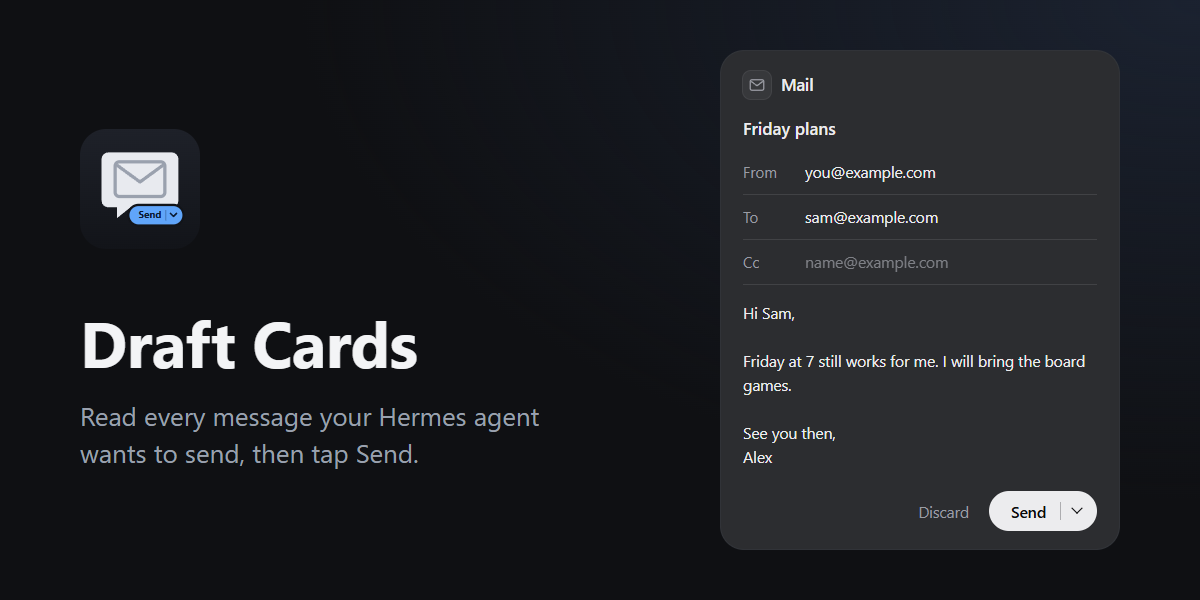
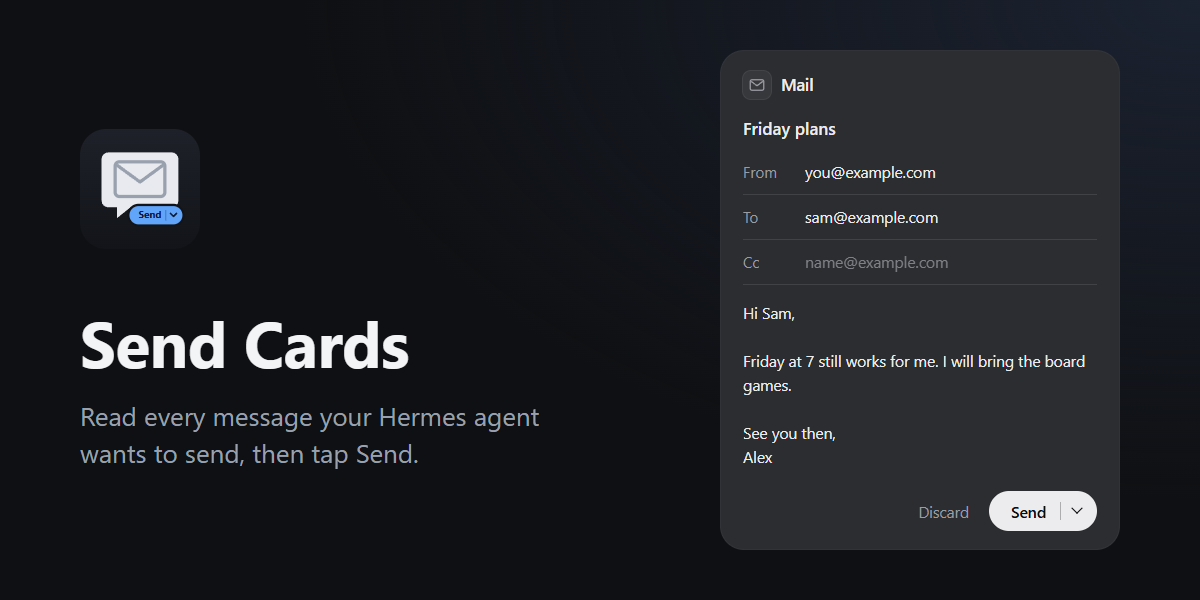
Rename to Send Cards (send-cards)

Changed region(s): [[0.0617, 0.51, 0.37, 0.63]]

diff --git a/tests/make_assets.py b/tests/make_assets.py
@@ -9,7 +9,7 @@ import tempfile
 from playwright.sync_api import sync_playwright
 
 ROOT = Path(__file__).resolve().parents[1]
-spec = importlib.util.spec_from_file_location('draft_card', ROOT / 'skills/draft-cards/scripts/draft_card.py')
+spec = importlib.util.spec_from_file_location('draft_card', ROOT / 'skills/send-cards/scripts/draft_card.py')
 card = importlib.util.module_from_spec(spec)
 spec.loader.exec_module(card)
 
@@ -30,7 +30,7 @@ body{background:radial-gradient(900px 500px at 100% 0,#1b2230,transparent),#0f10
 h1{font-size:64px;margin:46px 0 14px;font-weight:700;color:#f3f4f6;letter-spacing:-.5px}
 p{font-size:26px;line-height:1.4;color:#9aa1ae;margin:0;max-width:520px}
 .r{width:400px;flex:none}</style>
-<div class="l"><img src="ICON"><h1>Draft Cards</h1><p>Read every message your Hermes agent wants to send, then tap Send.</p></div>
+<div class="l"><img src="ICON"><h1>Send Cards</h1><p>Read every message your Hermes agent wants to send, then tap Send.</p></div>
 <div class="r">CARD</div>"""
 
 BANNER_DRAFT = {
@@ -63,11 +63,11 @@ def main():
             page.wait_for_timeout(300)
             page.screenshot(path=str(out))
 
-        shot(X_PREVIEW.replace('ICON', icon), 1200, 630, ROOT / 'skills/draft-cards/examples/x-preview.png')
+        shot(X_PREVIEW.replace('ICON', icon), 1200, 630, ROOT / 'skills/send-cards/examples/x-preview.png')
         banner_card = card.render(BANNER_DRAFT)
         shot(BANNER.replace('THEME', THEME).replace('ICON', icon).replace('CARD', banner_card), 1200, 600, docs / 'banner.png')
         browser.close()
-    print('Wrote assets/icon-{512,256,128,64}.png, skills/draft-cards/examples/x-preview.png, docs/banner.png')
+    print('Wrote assets/icon-{512,256,128,64}.png, skills/send-cards/examples/x-preview.png, docs/banner.png')
 
 
 if __name__ == '__main__':

diff --git a/tests/browser_check.py b/tests/browser_check.py
@@ -15,8 +15,8 @@ import threading
 from playwright.sync_api import sync_playwright
 
 ROOT = Path(__file__).resolve().parents[1]
-EXAMPLES = ROOT / 'skills/draft-cards/examples'
-spec = importlib.util.spec_from_file_location('draft_card', ROOT / 'skills/draft-cards/scripts/draft_card.py')
+EXAMPLES = ROOT / 'skills/send-cards/examples'
+spec = importlib.util.spec_from_file_location('draft_card', ROOT / 'skills/send-cards/scripts/draft_card.py')
 card = importlib.util.module_from_spec(spec)
 spec.loader.exec_module(card)
 

diff --git a/tests/test_send_cards.py b/tests/test_send_cards.py
@@ -14,8 +14,8 @@ import unittest
 from unittest.mock import patch
 
 ROOT = Path(__file__).resolve().parents[1]
-SCRIPTS = ROOT / 'skills/draft-cards/scripts'
-EXAMPLES = ROOT / 'skills/draft-cards/examples'
+SCRIPTS = ROOT / 'skills/send-cards/scripts'
+EXAMPLES = ROOT / 'skills/send-cards/examples'
 
 
 def load(name):

diff --git a/README.md b/README.md
@@ -1,6 +1,6 @@
-# Draft Cards for Hermes Agent
+# Send Cards for Hermes Agent
 
-![Draft Cards](docs/banner.png)
+![Send Cards](docs/banner.png)
 
 An approval card for every message your
 [Hermes Agent](https://github.com/NousResearch/hermes-agent) sends for you.
@@ -16,6 +16,8 @@ Once the message goes out, the same card collapses into a pill, "Gmail Sent ·
 dana.rivera@example.com · 2:14 PM", that expands to the read-only message. A
 discarded draft reads "Discarded". The idea is inspired by the draft cards in
 other agent apps.
+
+Send Cards is not affiliated with the separate "Draft Cards" plugin by arsiktech.
 
 | Email draft | Send menu open |
 | --- | --- |
@@ -37,11 +39,11 @@ which send a prompt back to the agent as your message.
 ## Install
 
 ```bash
-hermes plugins install kenhendricks00/hermes-draft-cards --enable
+hermes plugins install kenhendricks00/hermes-send-cards --enable
 ```
 
 This is a [Portable Agent Plugins v1](https://agent-plugins.org/specification)
-package with one skill, `draft-cards:draft-cards`, and two scripts. Start a new
+package with one skill, `send-cards:send-cards`, and two scripts. Start a new
 session after installing so the skill shows up.
 
 ## Usage
@@ -53,7 +55,7 @@ Ask Hermes to write something the way you normally would:
 The agent drafts the reply, writes it to a JSON file and renders the card:
 
 ```bash
-python skills/draft-cards/scripts/draft_card.py draft.json -o card.html
+python skills/send-cards/scripts/draft_card.py draft.json -o card.html
 ```
 
 and replies with one line plus
@@ -67,7 +69,7 @@ the agent receives lists only the changed fields, and it sends exactly that.
 After the channel confirms delivery, it re-renders the same file as a pill:
 
 ```bash
-python skills/draft-cards/scripts/draft_card.py draft.json -o card.html --state sent --sent-at "2:14 PM"
+python skills/send-cards/scripts/draft_card.py draft.json -o card.html --state sent --sent-at "2:14 PM"
 ```
 
 ```
@@ -76,11 +78,11 @@ python skills/draft-cards/scripts/draft_card.py draft.json -o card.html --state 
 
 States: `pending` (default), `sent`, `discarded`. The JSON schema is in the
 script's docstring, and
-[`skills/draft-cards/examples/`](skills/draft-cards/examples) has email,
+[`skills/send-cards/examples/`](skills/send-cards/examples) has email,
 Discord, LinkedIn and X examples with made-up data. Try one locally:
 
 ```bash
-python skills/draft-cards/scripts/draft_card.py skills/draft-cards/examples/email.json -o demo.html
+python skills/send-cards/scripts/draft_card.py skills/send-cards/examples/email.json -o demo.html
 ```
 
 Both scripts use only the Python standard library.
@@ -98,9 +100,9 @@ Rules are stored by `draft_rules.py` in `$HERMES_HOME/draft_rules.json`, per
 channel kind (email, chat, dm) and exact recipient:
 
 ```bash
-python skills/draft-cards/scripts/draft_rules.py list
-python skills/draft-cards/scripts/draft_rules.py approve email dana@example.com
-python skills/draft-cards/scripts/draft_rules.py enable-bot Hermes
+python skills/send-cards/scripts/draft_rules.py list
+python skills/send-cards/scripts/draft_rules.py approve email dana@example.com
+python skills/send-cards/scripts/draft_rules.py enable-bot Hermes
 ```
 
 ## Safety
@@ -158,8 +160,8 @@ The plugin does not touch the host frame itself.
 ## Develop
 
 ```bash
-git clone https://github.com/kenhendricks00/hermes-draft-cards
-cd hermes-draft-cards
+git clone https://github.com/kenhendricks00/hermes-send-cards
+cd hermes-send-cards
 python -m unittest discover -s tests -v
 hermes plugins validate . --install-deps
 ```

diff --git a/skills/send-cards/SKILL.md b/skills/send-cards/SKILL.md
@@ -1,5 +1,5 @@
 ---
-name: draft-cards
+name: send-cards
 description: Use before sending any email, chat message, DM, reply, comment or post for the user. Show an inline draft card with the recipients and the exact text, editable in place, with Discard and Send buttons; send only after the user taps Send (or gives an explicit yes for that draft). After sending, re-render the card as a collapsed "Sent" pill.
 license: MIT
 metadata:
@@ -8,7 +8,7 @@ metadata:
   tags: "email, discord, slack, linkedin, sms, x, messages, drafts, approval, widget"
 ---
 
-# Draft Cards
+# Send Cards
 
 An approval step for every message you send on the user's behalf. Instead of
 pasting a draft into chat and asking "send it?", you show an inline card:
